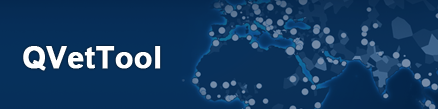
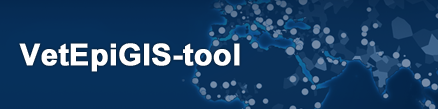
0.7

Changed region(s): [[0.0297, 0.3853, 0.5639, 0.6606]]

diff --git a/README.md b/README.md
@@ -1,2 +1,2 @@
-# VetEpiGIStool
+# VetEpiGIS-Tool
 A QGIS plugin, Spatial functions for vet epidemiology
